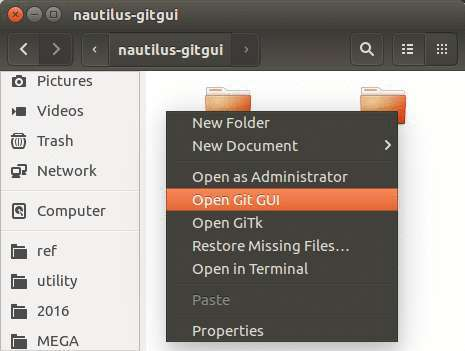
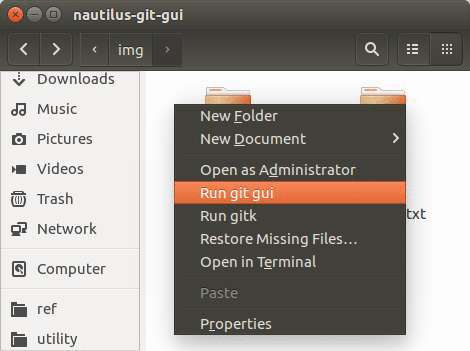
Add image

diff --git a/extensions/nautilus-git-gui.py b/extensions/nautilus-git-gui.py
@@ -1,13 +1,13 @@
 #!/usr/bin/env python3
 # coding: utf-8
-## \file      nautilus-gitgui.py
+## \file      nautilus-git-gui.py
 ## \author    SENOO, Ken
 ## \copyright CC0
 ## \date      created date: 2017-05-04T14:04+09:00
-## \date      updated date: 2017-05-04T15:07+09:00
+## \date      updated date: 2017-05-04T23:54+09:00
 
 import os, subprocess
-from gi.repository import Nautilus, GObject, GConf, Gtk, GLib
+from gi.repository import Nautilus, GObject
 
 class NautilusGitGUI(Nautilus.MenuProvider, GObject.GObject):
     def __init__(self):
@@ -23,15 +23,15 @@ class NautilusGitGUI(Nautilus.MenuProvider, GObject.GObject):
 
     def _create_gitgui_item(self, file):
         item = Nautilus.MenuItem(name="NautilusGitGUI::GitGUI",
-                                 label="Open Git GUI",
-                                 tip="Open Git GUI here")
+                                 label="Run git gui",
+                                 tip="Run git gui here")
         item.connect("activate", self._gitgui_run, file)
         return item
 
     def _create_gitk_item(self, file):
         item = Nautilus.MenuItem(name="NautilusGitGUI::GiTk",
-                                 label="Open GiTk",
-                                 tip="Open GiTk here")
+                                 label="Run gitk",
+                                 tip="Run gitk here")
         item.connect("activate", self._gitk_run, file)
         return item
 
